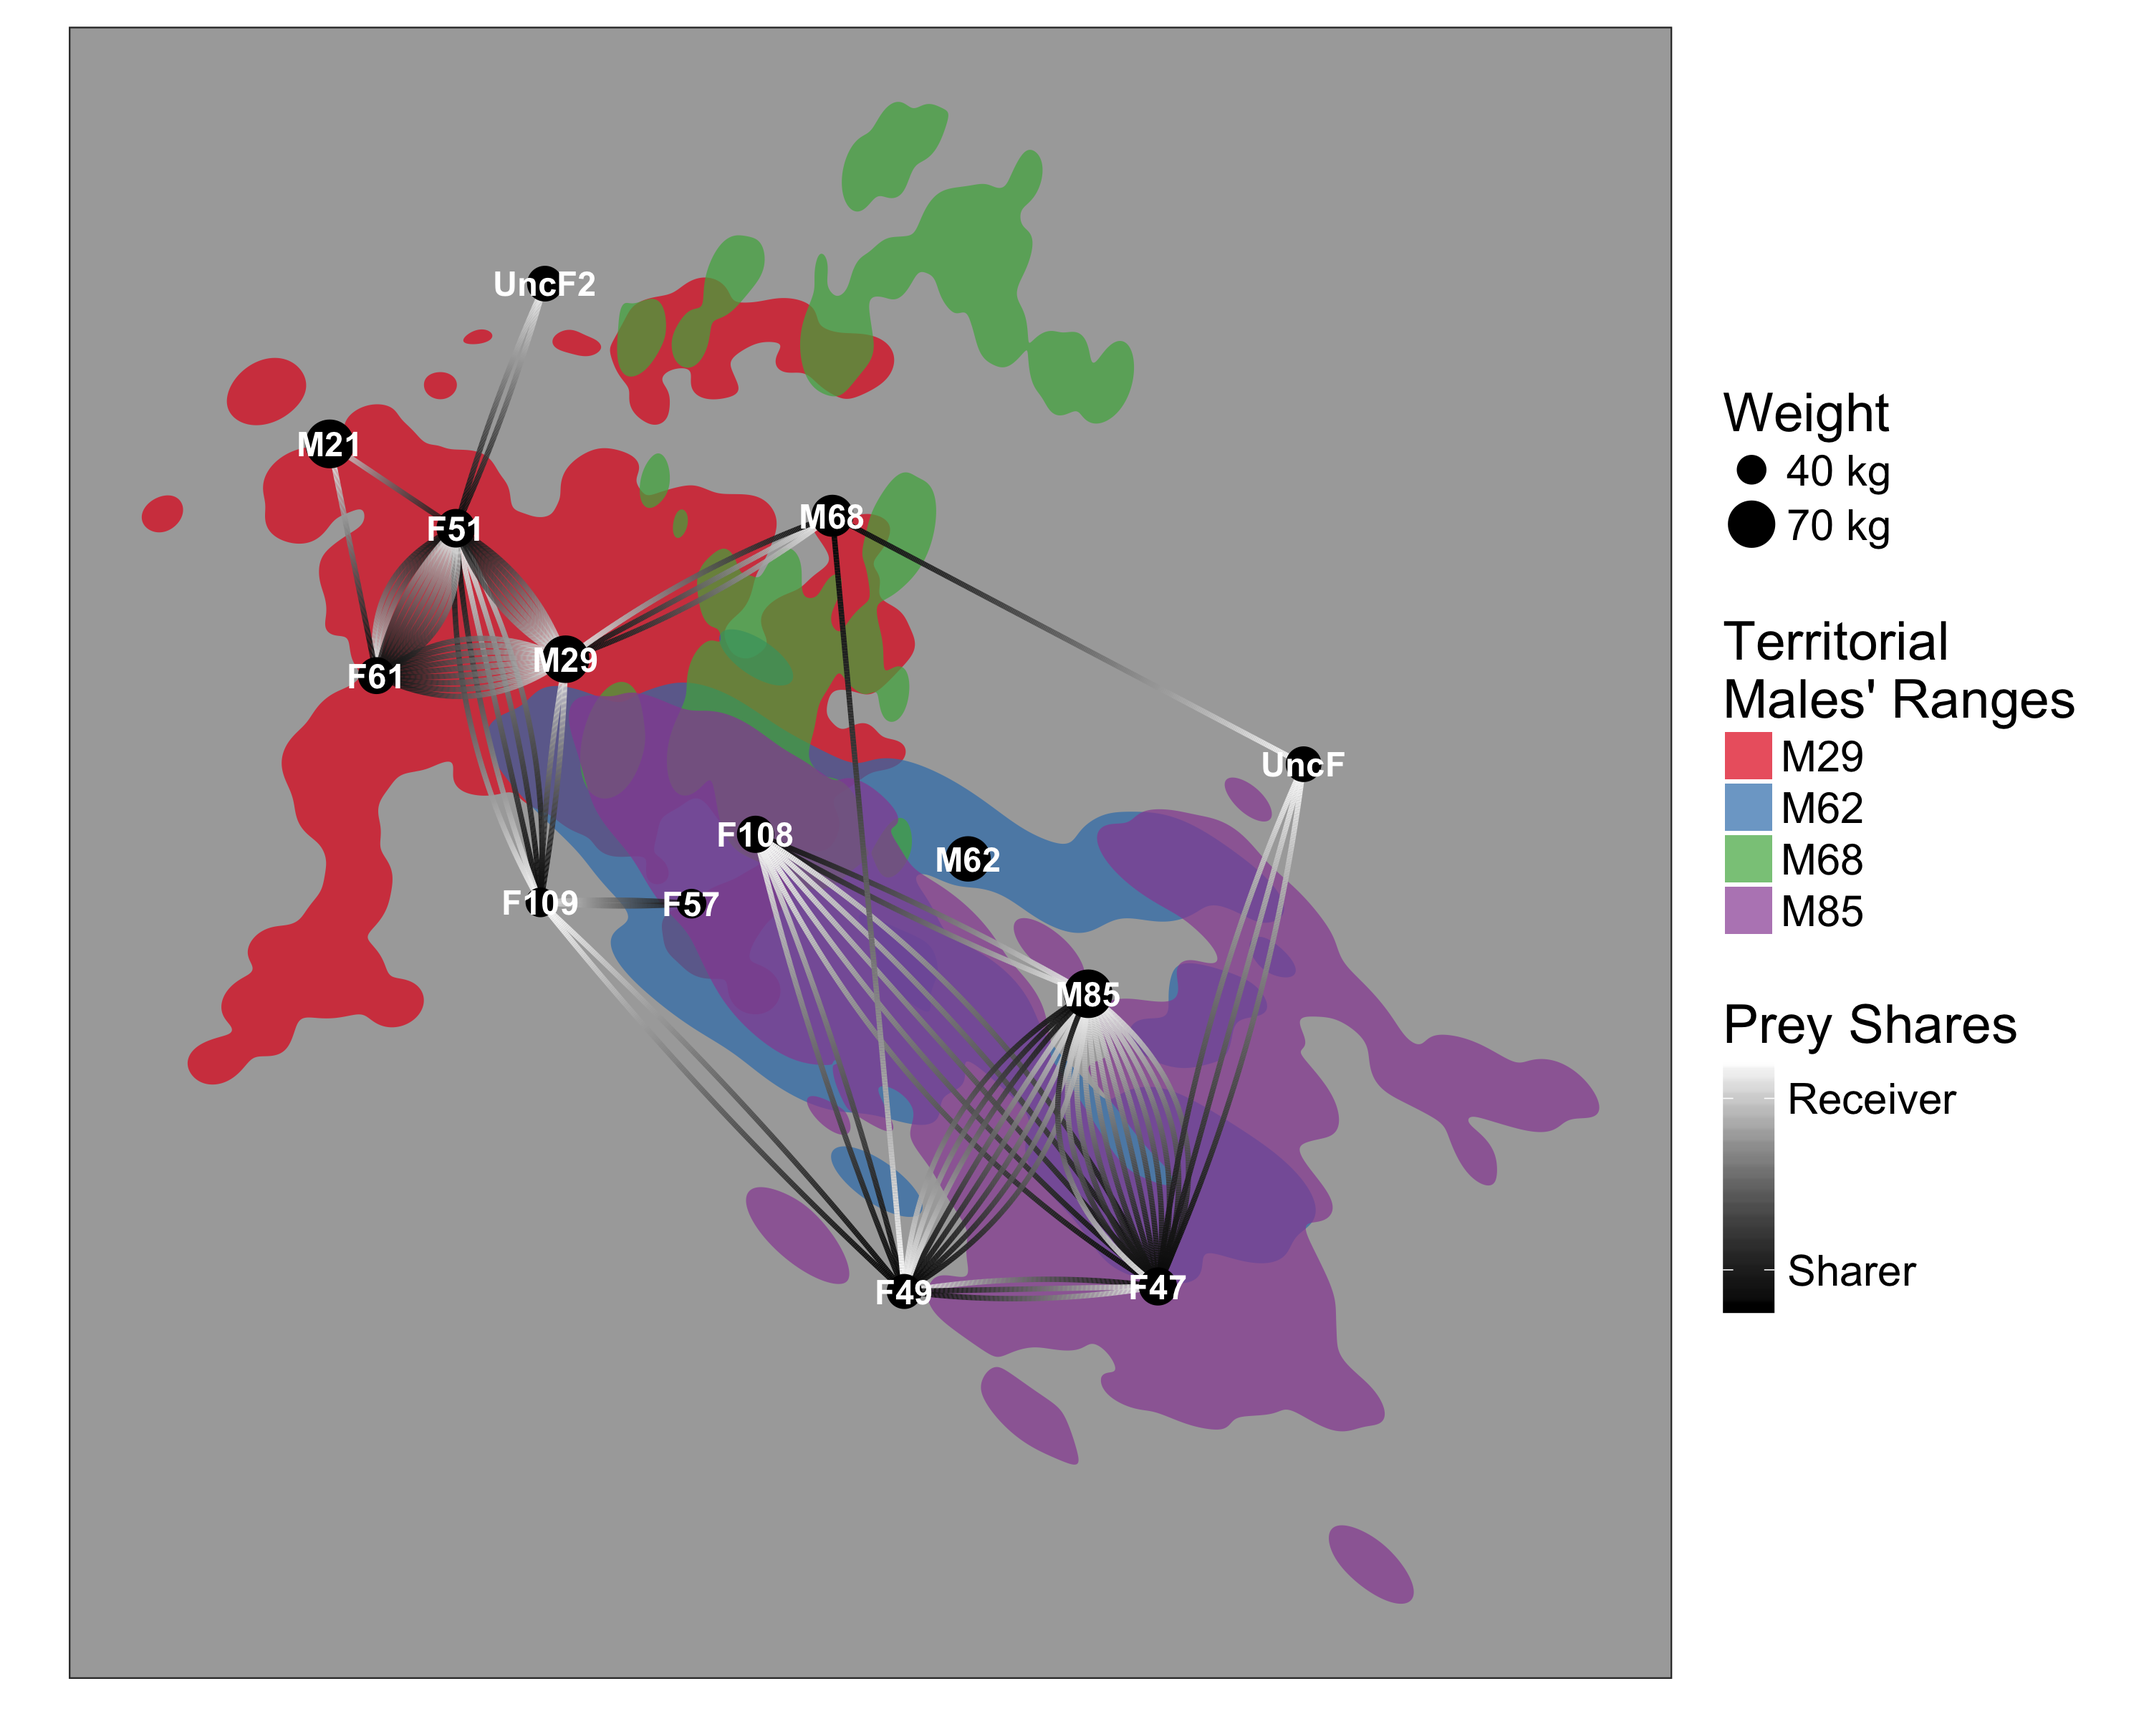
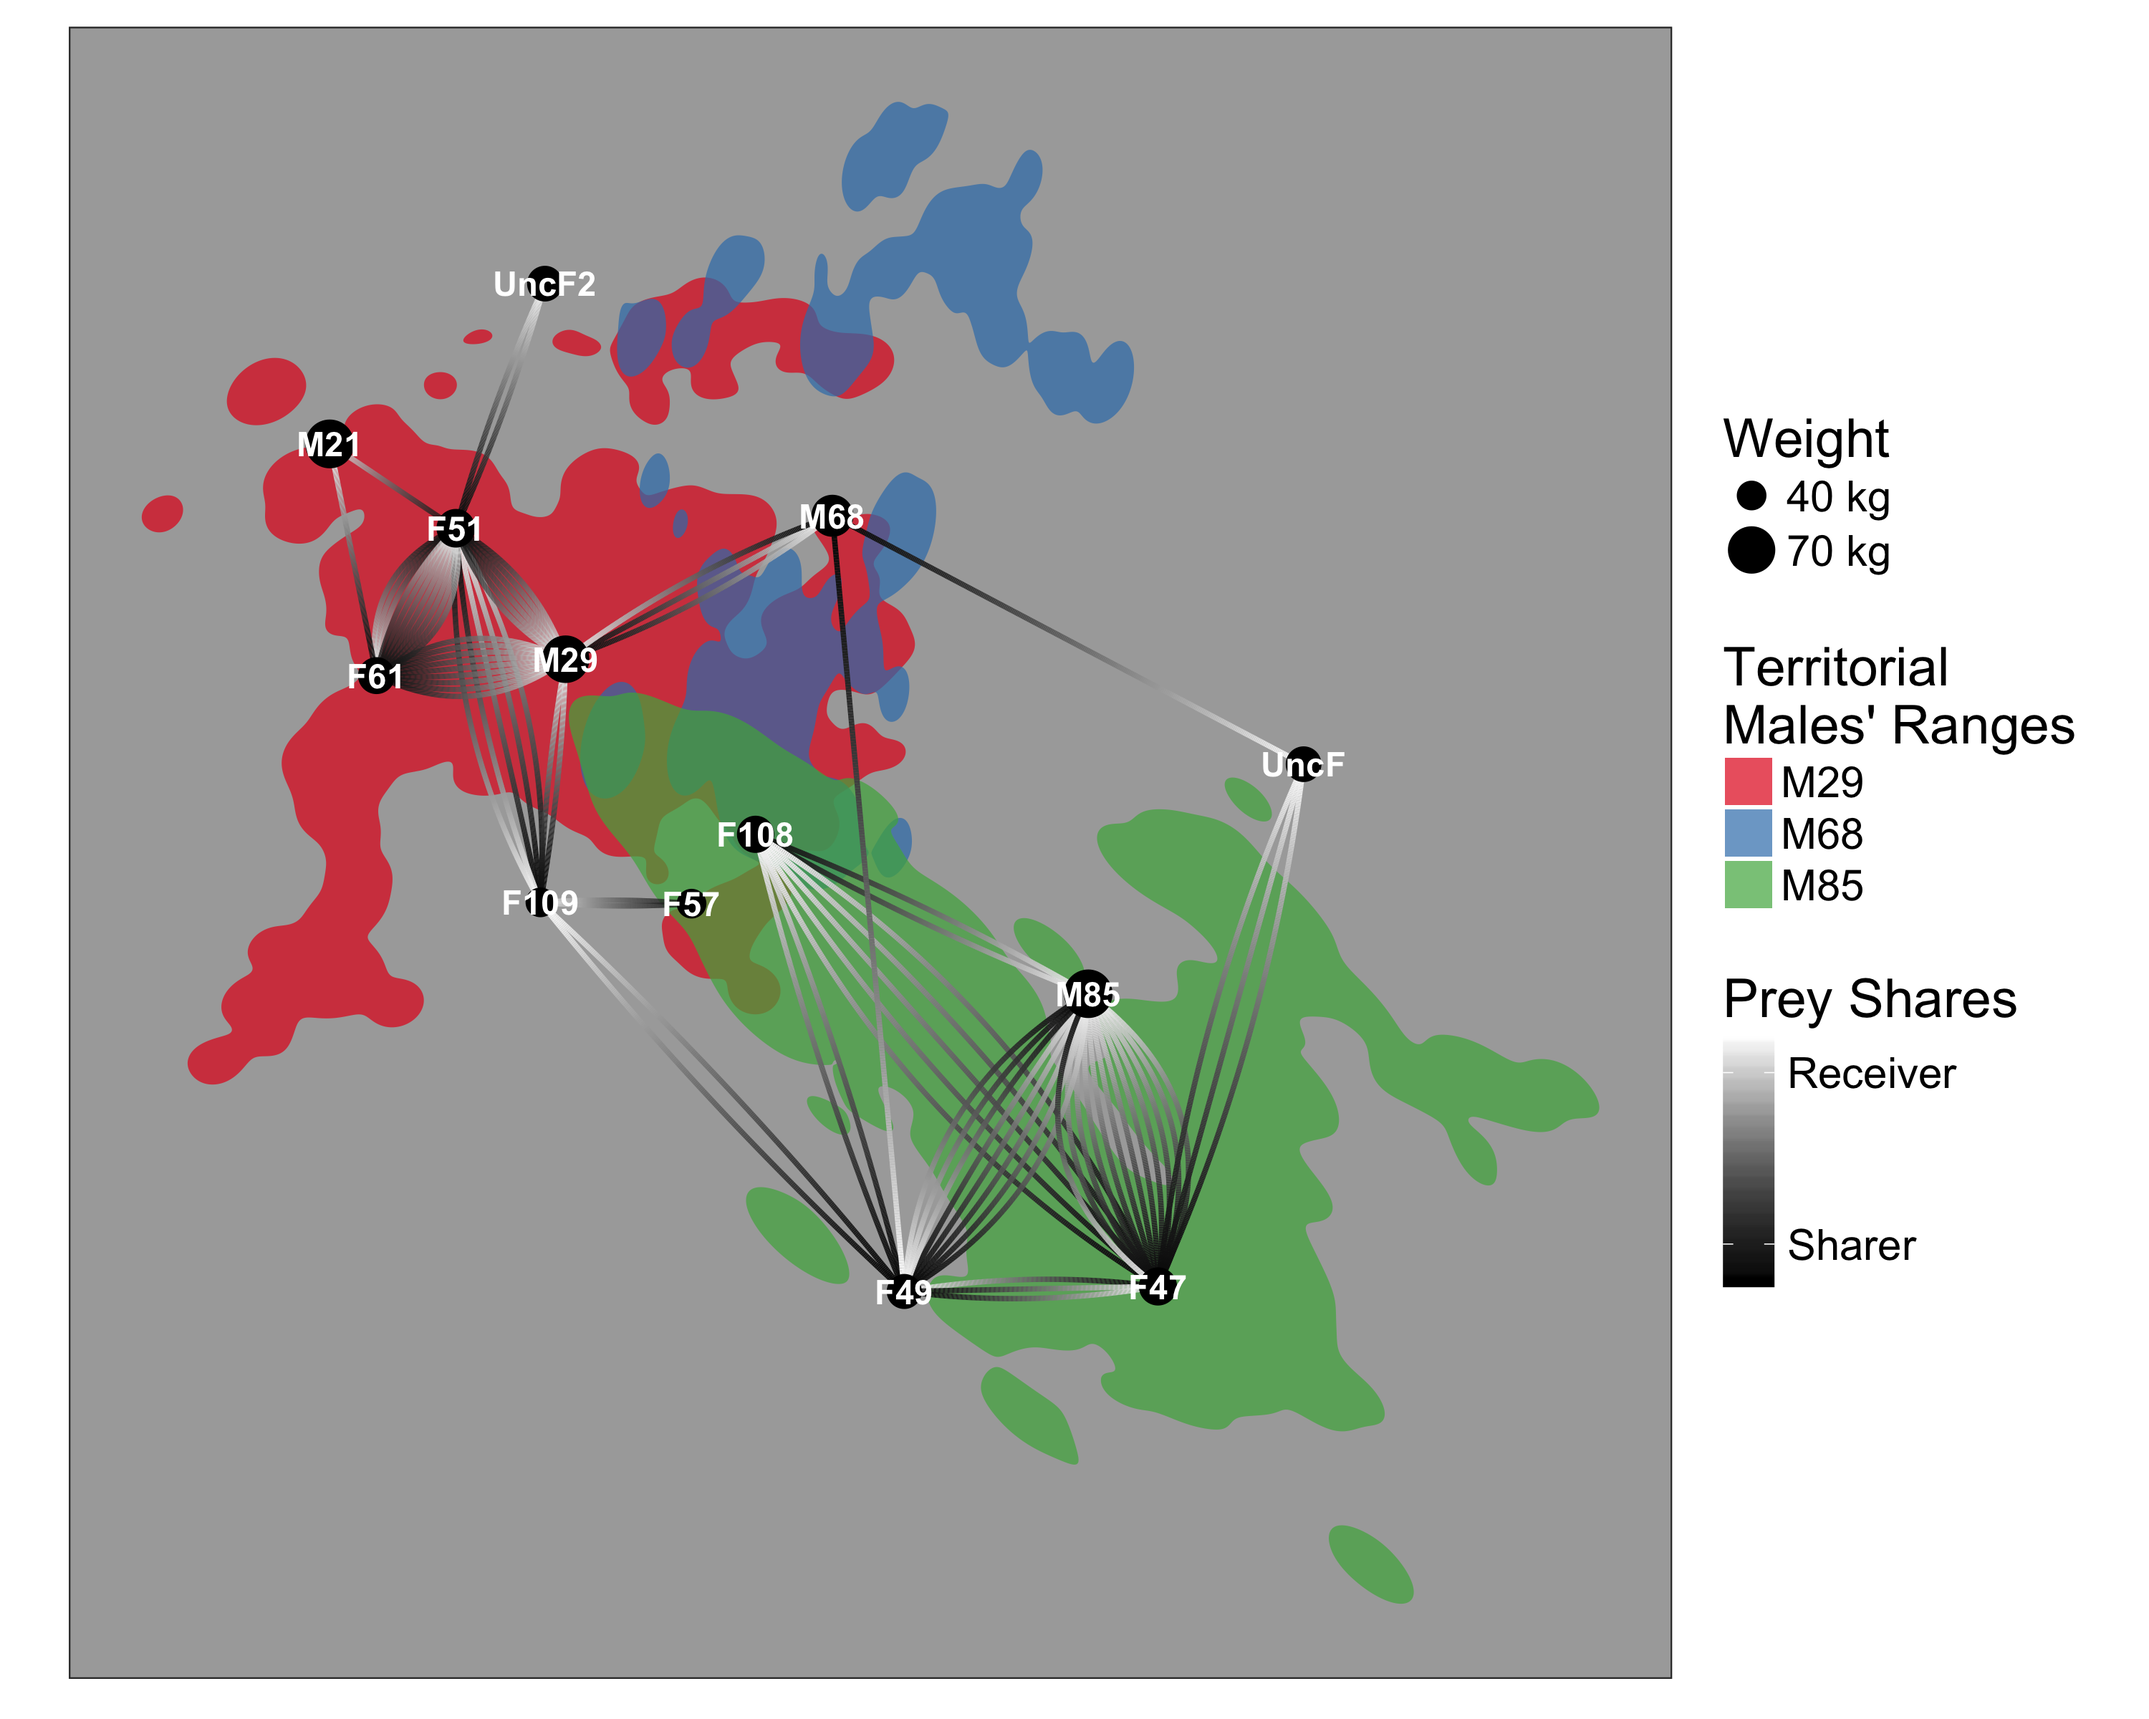
Major revisions to manuscript and remove M62

diff --git a/README.md b/README.md
@@ -2,3 +2,25 @@
 Prey sharing networks of mountain lions
 
 ![map with network](https://github.com/michaellevy/puma-networks/blob/master/results/mapWithNetwork.png?raw=true)
+
+Pipeline, as I use it as I remove M62:
+
+1. organizeData.R:  
+- Read edgelist in first few rows -> write `edgelist.csv`
+- Read other dyads and Elbroch's response to email -> write `dyadInfo.csv`
+
+1. makeNetworks.R: 
+- Read dyadInfo.csv and edgelist.csv from organizeData; attributes.csv from raw
+- Clean by removing F59, M62
+- Impute, create all possible pairings
+- Write nodeInfo.csv
+- Write network.RDS
+
+1. catTable.R, write cat_table.csv which goes into paper
+
+1. descriptives.R, manually export correlation with in- and out-degree table to paper. Calculate statistics for use in-text.
+
+1. catTable.R: write cat_table.csv for paper
+
+...
+
